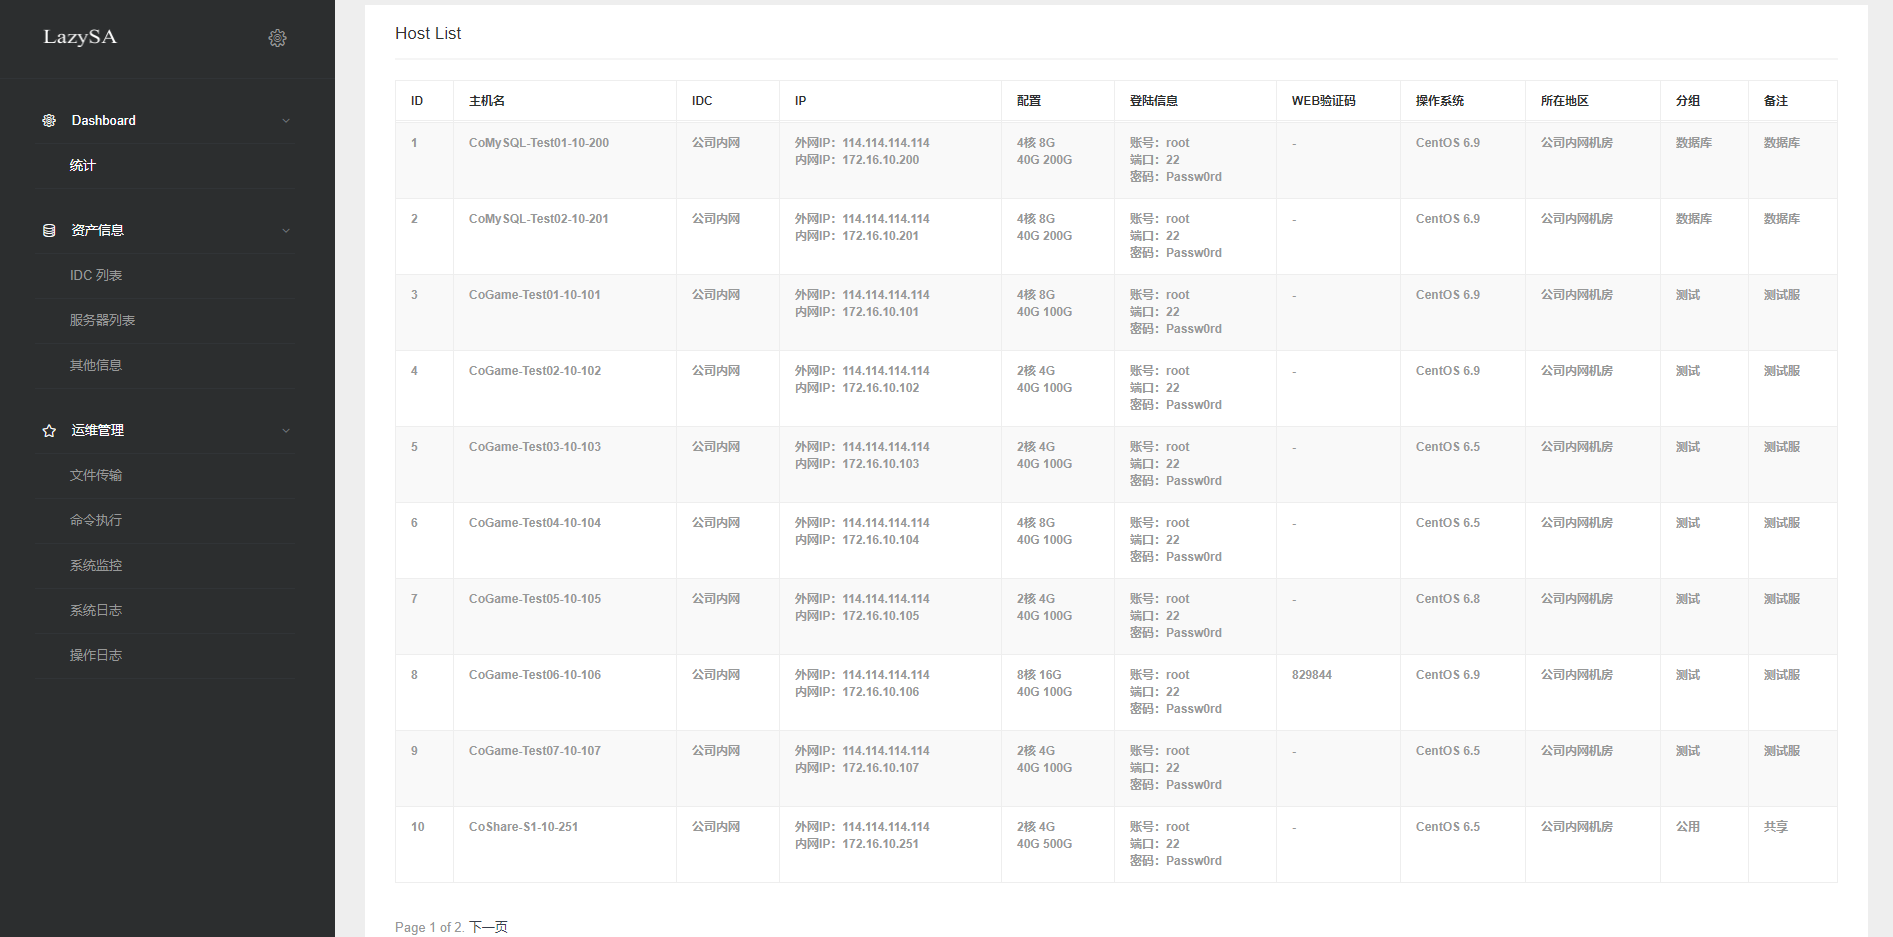
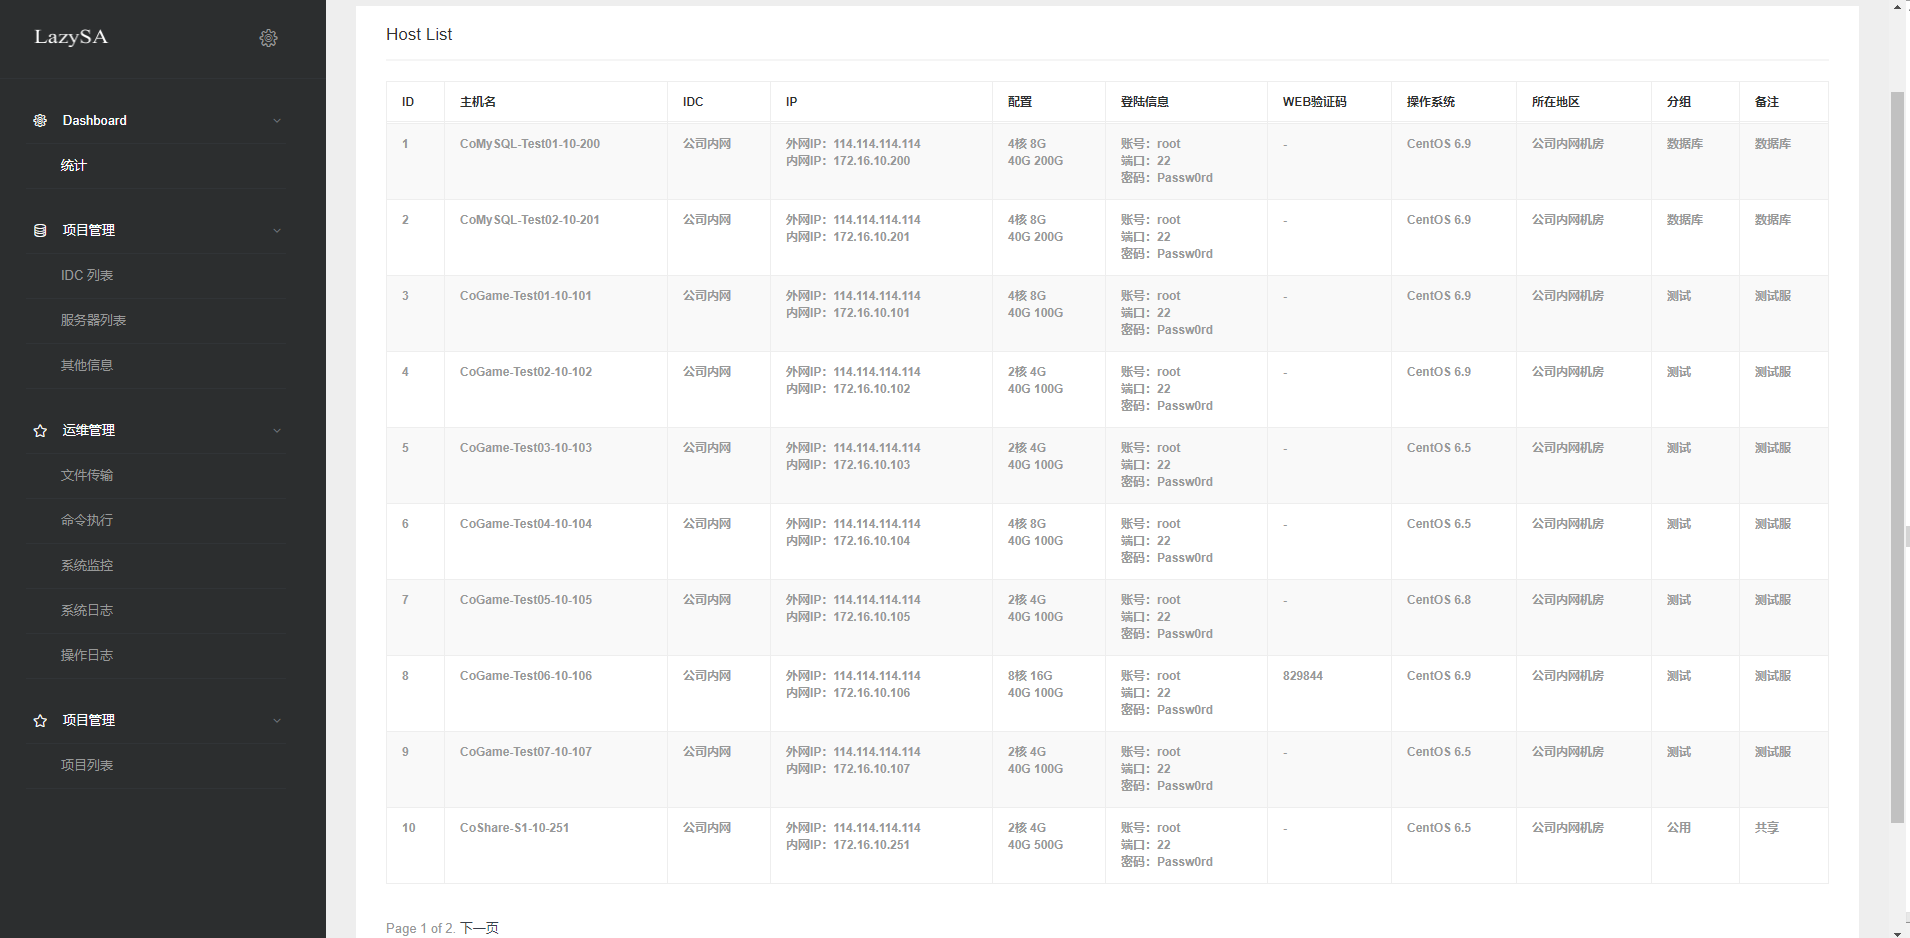
index 页修改

diff --git a/templates/index.html b/templates/index.html
@@ -4,39 +4,101 @@
 {% block page-body-content %}
 
     <div class="row">
-        <div class="col-sm-3">
-			<div class="xe-widget xe-counter" data-count=".num" data-from="0" data-to="{{ IdcCount }}">
-				<div class="xe-icon">
-					<i class="linecons-cloud"></i>
-				</div>
-				<div class="xe-label">
-					<strong class="num">0.0%</strong>
-					<span>IDC Total </span>
-				</div>
-			</div>
+        <div class="clearfix"></div>
+        <div class="col-sm-8">
+            <script type="text/javascript">
+                jQuery(document).ready(function($)
+                {
+                    var map = $("#sample-map-widget");
+                    var gdpData = { "AF": 16.63, "AL": 11.58, "DZ": 158.97, "AO": 85.81, "AG": 1.1, "AR": 351.02, "AM": 8.83, "AU": 1219.72, "AT": 366.26, "AZ": 52.17, "BS": 7.54, "BH": 21.73, "BD": 105.4, "BB": 3.96, "BY": 52.89, "BE": 461.33, "BZ": 1.43, "BJ": 6.49, "BT": 1.4, "BO": 19.18, "BA": 16.2, "BW": 12.5, "BR": 2023.53, "BN": 11.96, "BG": 44.84, "BF": 8.67, "BI": 1.47, "KH": 11.36, "CM": 21.88, "CA": 1563.66, "CV": 1.57, "CF": 2.11, "TD": 7.59, "CL": 199.18, "CN": 5745.13, "CO": 283.11, "KM": 0.56, "CD": 12.6, "CG": 11.88, "CR": 35.02, "CI": 22.38, "HR": 59.92, "CY": 22.75, "CZ": 195.23, "DK": 304.56, "DJ": 1.14, "DM": 0.38, "DO": 50.87, "EC": 61.49, "EG": 216.83, "SV": 21.8, "GQ": 14.55, "ER": 2.25, "EE": 19.22, "ET": 30.94, "FJ": 3.15, "FI": 231.98, "FR": 2555.44, "GA": 12.56, "GM": 1.04, "GE": 11.23, "DE": 3305.9, "GH": 18.06, "GR": 305.01, "GD": 0.65, "GT": 40.77, "GN": 4.34, "GW": 0.83, "GY": 2.2, "HT": 6.5, "HN": 15.34, "HK": 226.49, "HU": 132.28, "IS": 12.77, "IN": 1430.02, "ID": 695.06, "IR": 337.9, "IQ": 84.14, "IE": 204.14, "IL": 201.25, "IT": 2036.69, "JM": 13.74, "JP": 5390.9, "JO": 27.13, "KZ": 129.76, "KE": 32.42, "KI": 0.15, "KR": 986.26, "UNDEFINED": 5.73, "KW": 117.32, "KG": 4.44, "LA": 6.34, "LV": 23.39, "LB": 39.15, "LS": 1.8, "LR": 0.98, "LY": 77.91, "LT": 35.73, "LU": 52.43, "MK": 9.58, "MG": 8.33, "MW": 5.04, "MY": 218.95, "MV": 1.43, "ML": 9.08, "MT": 7.8, "MR": 3.49, "MU": 9.43, "MX": 1004.04, "MD": 5.36, "MN": 5.81, "ME": 3.88, "MA": 91.7, "MZ": 10.21, "MM": 35.65, "NA": 11.45, "NP": 15.11, "NL": 770.31, "NZ": 138, "NI": 6.38, "NE": 5.6, "NG": 206.66, "NO": 413.51, "OM": 53.78, "PK": 174.79, "PA": 27.2, "PG": 8.81, "PY": 17.17, "PE": 153.55, "PH": 189.06, "PL": 438.88, "PT": 223.7, "QA": 126.52, "RO": 158.39, "RU": 1476.91, "RW": 5.69, "WS": 0.55, "ST": 0.19, "SA": 434.44, "SN": 12.66, "RS": 38.92, "SC": 0.92, "SL": 1.9, "SG": 217.38, "SK": 86.26, "SI": 46.44, "SB": 0.67, "ZA": 354.41, "ES": 1374.78, "LK": 48.24, "KN": 0.56, "LC": 1, "VC": 0.58, "SD": 65.93, "SR": 3.3, "SZ": 3.17, "SE": 444.59, "CH": 522.44, "SY": 59.63, "TW": 426.98, "TJ": 5.58, "TZ": 22.43, "TH": 312.61, "TL": 0.62, "TG": 3.07, "TO": 0.3, "TT": 21.2, "TN": 43.86, "TR": 729.05, "TM": 0, "UG": 17.12, "UA": 136.56, "AE": 239.65, "GB": 2258.57, "US": 14624.18, "UY": 40.71, "UZ": 37.72, "VU": 0.72, "VE": 285.21, "VN": 101.99, "YE": 30.02, "ZM": 15.69, "ZW": 5.57 };
+                    var vmap = map.vectorMap({
+                        map: 'world_mill_en',
+                        backgroundColor: '',
+                        regionStyle: {
+                            initial: {
+                                "fill": '#fff',
+                                "fill-opacity": 0.2,
+                                "stroke": '',
+                                "stroke-width": .7,
+                                "stroke-opacity": .5
+                            },
+                            hover: {
+                                "fill-opacity": 1,
+                                "fill": "#ddd"
+                            }
+                            },
+                        markerStyle: {
+                            initial: {
+                                fill: '#fff',
+                                "stroke": "#fff",
+                                "stroke-width": 0,
+                                r: 2.5
+                            },
+                            selected: {
+                                fill: '#7c38bc',
+                                "stroke-width": 0
+                            }
+                            },
+                        markers: [
+                            {latLng: [42.58, 20.88], name: 'Kosovo'},
+                            {latLng: [40.71, -74.00], name: 'New York'},
+                            {latLng: [36.77, -119.41], name: 'California'},
+                            {latLng: [-22.90, -43.19], name: 'Rio De Janiero'},
+                            {latLng: [35.68, 139.69], name: 'Tokyo'},
+                            {latLng: [59.32, 18.06], name: 'Stockholm'},
+                            {latLng: [25.04, 55.18], name: 'Dubai'},
+                            {latLng: [51.50, -0.12], name: 'London'},
+                            {latLng: [-33.92, 18.42], name: 'Cape Town'},
+                        ]
+                    });
+                });
+                </script>
+            <div class="xe-widget xe-map-stats">
+                <div class="xe-map">
+                    <div id="sample-map-widget"></div>
+                </div>
+                <div class="xe-details">
+                    <div class="xe-label">
+                        <h3>资产统计</h3>
+                        <!--<p>3 month period</p>-->
+                    </div>
+                    <ul class="list-unstyled">
+                        <li>
+                            <div class="xe-map-data">
+                                <span class="label label-secondary">{{ IdcCount }}</span>
+                                <span class="xe-label">IDC</span>
+                            </div>
+                        </li>
+                        <li>
+                            <div class="xe-map-data">
+                                <span class="label label-purple">{{ HostCount }}</span>
+                                <span class="xe-label">服务器</span>
+                            </div>
+                        </li>
+                        <li>
+                            <div class="xe-map-data">
+                                <span class="label label-yellow">311</span>
+                                <span class="xe-label">云</span>
+                            </div>
+                        </li>
+                        <li>
+                            <div class="xe-map-data">
+                                <span class="label label-red">1024</span>
+                                <span class="xe-label">其他</span>
+                            </div>
+                        </li>
+                    </ul>
+                </div>
+            </div>
+        </div>
+				<div class="clearfix"></div>
 
-			<div class="xe-widget xe-counter " data-count=".num" data-from="0" data-to="{{ HostCount }}" >
-				<div class="xe-icon">
-					<i class="linecons-database"></i>
-				</div>
-					<div class="xe-label">
-						<strong class="num">0</strong>
-						<span>Server Total</span>
-					</div>
+
+
+
+
 				</div>
 
-				<div class="xe-widget xe-counter xe-counter-info" data-count=".num" data-from="0" data-to="0">
-					<div class="xe-icon">
-						<i class="linecons-cloud"></i>
-					</div>
-					<div class="xe-label">
-						<strong class="num">0</strong>
-						<span>Wahah</span>
-					</div>
-				</div>
-
-			</div>
-		</div>
 {% endblock %}
 {% block bottom-js %}
 {% endblock %}

diff --git a/templates/base.html b/templates/base.html
@@ -38,25 +38,20 @@
 </head>
 <body class="page-body">
 
-
-
 	<div class="page-container"><!-- add class "sidebar-collapsed" to close sidebar by default, "chat-visible" to make chat appear always -->
-			
 		<!-- Add "fixed" class to make the sidebar fixed always to the browser viewport. -->
 		<!-- Adding class "toggle-others" will keep only one menu item open at a time. -->
 		<!-- Adding class "collapsed" collapse sidebar root elements and show only icons. -->
 		<div class="sidebar-menu toggle-others fixed">
-			
+
 			<div class="sidebar-menu-inner">	
 				
 				<header class="logo-env">
-					
 					<!-- logo -->
 					<div class="logo">
 						<a href="#" class="logo-expanded">
 							<img src="/static/images/logo@2x.png" width="80" alt="" />
 						</a>
-						
 						<a href="#" class="logo-collapsed">
 							<img src="/static/images/logo-collapsed@2x.png" width="40" alt="" />
 						</a>
@@ -89,17 +84,15 @@
 					<!-- class "auto-inherit-active-class" will automatically add "active" class for parent elements who are marked already with class "active" -->
 					<li class="active opened active">
 						<a href="{% url 'home' %}">
-							<i class="linecons-cog"></i>
-							<span class="title">Dashboard</span>
-						</a>
-						<ul>
-
+                            <i class="linecons-cog"></i>
+                            <span class="title">Dashboard</span>
+                        </a>
+                        <ul>
 							<li class="active">
-								<a href="{% url 'home' %}">
-									<span class="title">统计</span>
-								</a>
-							</li>
-
+                                <a href="{% url 'home' %}">
+                                    <span class="title">统计</span>
+                                </a>
+                            </li>
                         </ul>
                     </li>
                 </ul>
@@ -108,14 +101,14 @@
 					<li class="active opened active">
                         <a href="#">
 							<i class="linecons-database"></i>
-							<span class="title">资产信息</span>
-						</a>
-						<ul>
+                            <span class="title">项目管理</span>
+                        </a>
+                        <ul>
 							<li>
 								<a href="{% url 'idc_list' %}">
 									<span class="title">IDC 列表 </span>
-								</a>
-							</li>
+                                </a>
+                            </li>
 							<li>
 								<a href="{% url 'host_list' %}">
 									<span class="title">服务器列表</span>
@@ -166,11 +159,23 @@
 					</li>
                 </ul>
 
-			</div>
-
-
-
-		</div>
+                 <ul id="main-menu" class="main-menu">
+					<li class="active opened active">
+                        <a href="#">
+							<i class="linecons-star"></i>
+							<span class="title">项目管理</span>
+						</a>
+						<ul>
+							<li>
+								<a href="#">
+									<span class="title">项目列表 </span>
+								</a>
+							</li>
+						</ul>
+					</li>
+                </ul>
+            </div>
+        </div>
 		
 		<div class="main-content">
 					
@@ -205,7 +210,7 @@
 					
 					<li class="dropdown user-profile">
 						<a href="#" data-toggle="dropdown">
-							<img src="/static/images/user-4.png" alt="user-image" class="img-circle img-inline userpic-32" width="28" />
+							<img src="/static/images/user01.jpg" alt="user-image" class="img-circle img-inline userpic-32" width="28" />
 							<span>
 								{{ request.user }}
 								<i class="fa-angle-down"></i>
@@ -309,6 +314,8 @@
 	<script src="/static/js/devexpress-web-14.1/js/globalize.min.js"></script>
 	<script src="/static/js/devexpress-web-14.1/js/dx.chartjs.js"></script>
 	<script src="/static/js/toastr/toastr.min.js"></script>
+	<script src="/static/js/jvectormap/jquery-jvectormap-1.2.2.min.js"></script>
+	<script src="/static/js/jvectormap/regions/jquery-jvectormap-world-mill-en.js"></script>
 
 
 	<!-- JavaScripts initializations and stuff -->

diff --git a/assets/models.py b/assets/models.py
@@ -45,12 +45,12 @@ class HostInfo(models.Model):
 	cpu = models.CharField(blank=True, null=True, max_length=50, default='4核', verbose_name='CPU')
 	men = models.CharField(blank=True, null=True, max_length=50, default='8G', verbose_name='内存')
 	disk = models.CharField(blank=True, null=True, max_length=10,default='40G 100G', verbose_name='硬盘大小')
-	account = models.CharField(blank=True, null=True, max_length=100, default='csadministrator', verbose_name='账号')
-	port = models.CharField(blank=True,null=True, max_length=100, default='2048', verbose_name='端口')
-	password = models.CharField(blank=True, null=True, max_length=100, default='Cs@ecs#201801', verbose_name='密码')
+	account = models.CharField(blank=True, null=True, max_length=100, default='root', verbose_name='账号')
+	port = models.CharField(blank=True,null=True, max_length=100, default='22', verbose_name='端口')
+	password = models.CharField(blank=True, null=True, max_length=100, default='Passw0rd', verbose_name='密码')
 	webcode = models.CharField(blank=True, null=True, max_length=50,default='-', verbose_name='WEB验证码')
 	webid = models.CharField(blank=True, null=True, max_length=50,default='-', verbose_name='实例ID')
-	system = models.CharField(blank=True, null=True, max_length=100,default='Win2008 R2 x64',verbose_name='操作系统')
+	system = models.CharField(blank=True, null=True, max_length=100,default='Cent OS 6.9 x64',verbose_name='操作系统')
 	area = models.CharField(blank=True, null=True, max_length=100,verbose_name='所在地区')
 	group = models.CharField(blank=True, null=True, max_length=300,verbose_name='所属组')
 	#group = models.ManyToManyField(GroupInfo, verbose_name='所属组')
